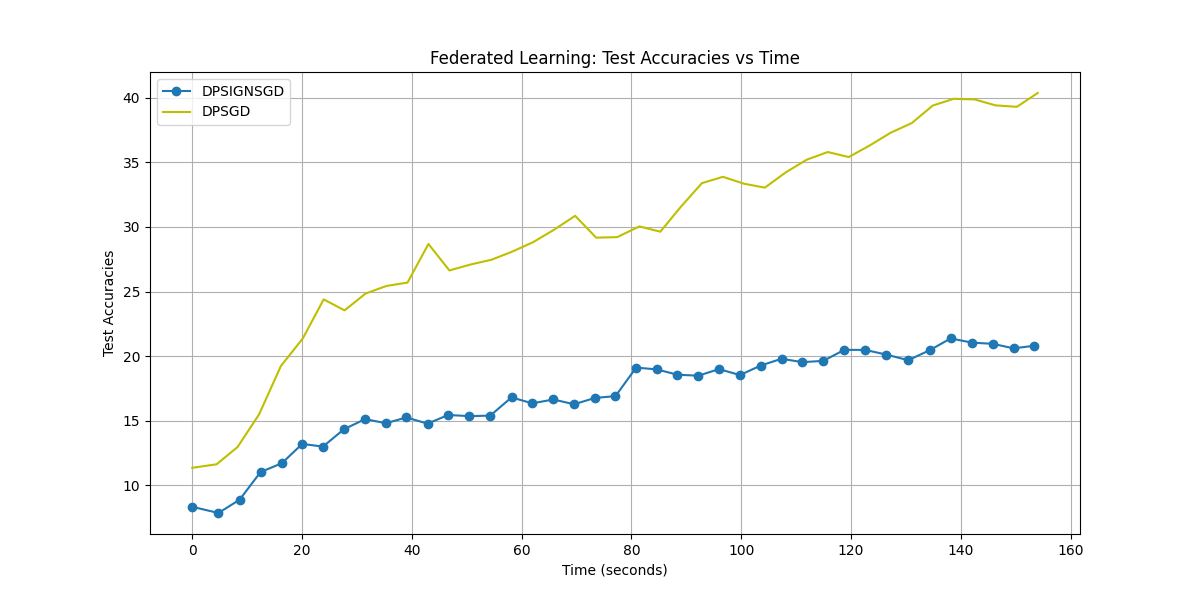
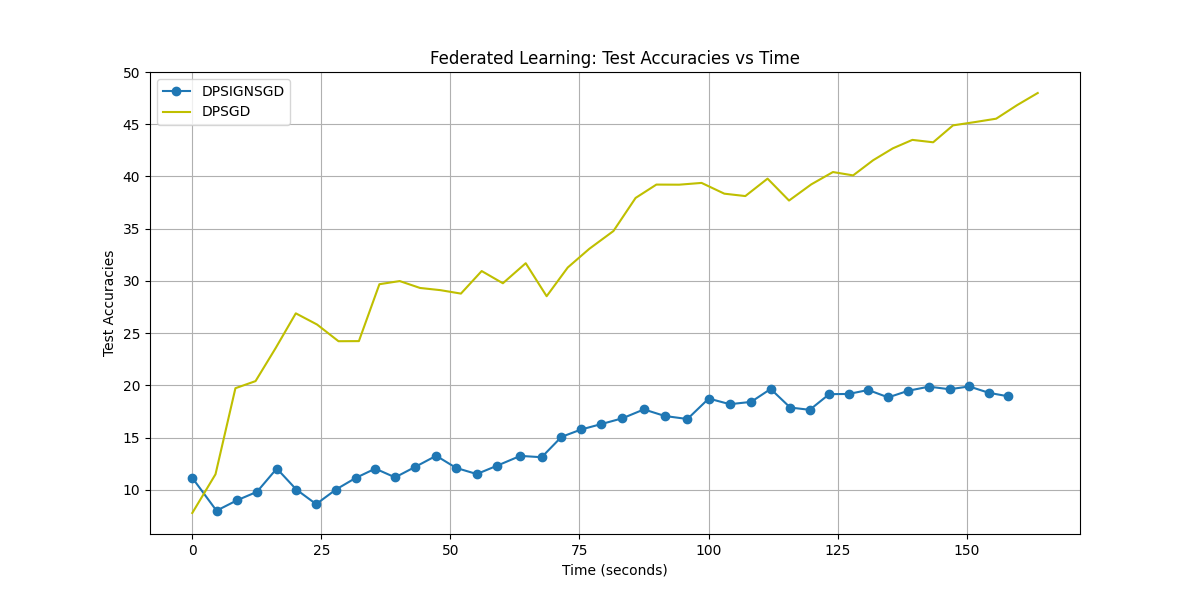
MLP done quite well (27.5% and 44.8%)

diff --git a/code/gpt_majority_sign.py b/code/gpt_majority_sign.py
@@ -13,7 +13,7 @@ import numpy as np
 from torch.utils.data import random_split, DataLoader
 from privacy_methods import dp_sign_by_sigma, dp_by_sigma, find_min_sigma
 
-code_version = "mlp_29"
+code_version = "mlp_292"
 # Global path for saving figures
 FIGS_PATH = os.path.abspath(os.path.join(os.path.dirname(__file__), '..', 'figs', code_version))
 # Create directory for saving plots
@@ -34,16 +34,16 @@ DEFAULT_CONFIG = {
     'algorithms': {
         'signsgd': {
             'enabled': False,
-            'num_epochs': 40,
+            'num_epochs': 100,
             'lr_scheduler': lambda t: 0.01 / (t + 1)**(1/3),  # Optimal learning rate for perceptron
             'poisson_qn': 30,
             'color': 'b'
         },
         'dpsignsgd': {
             'enabled': True,
-            'num_epochs': 40,
+            'num_epochs': 100,
             # Learning rate scheduler with warmup: linear warmup for first 100 iterations, then decay
-            'lr_scheduler': lambda t: 0.005 * min(1.0, (t+1)/100) / (t + 1)**(1/5),  # Warmup + optimal LR
+            'lr_scheduler': lambda t: 0.005 * min(1.0, (t+1)/500) / (t + 1)**(1/5),  # Warmup + optimal LR
             'poisson_qn': 100, # 200 and 1 --> 10 and 20
             'repeat_num': 1,
             'clipping_level': lambda t: 4, # lambda t: 10 / (t + 1)**(1/6),  # Dynamic clipping level
